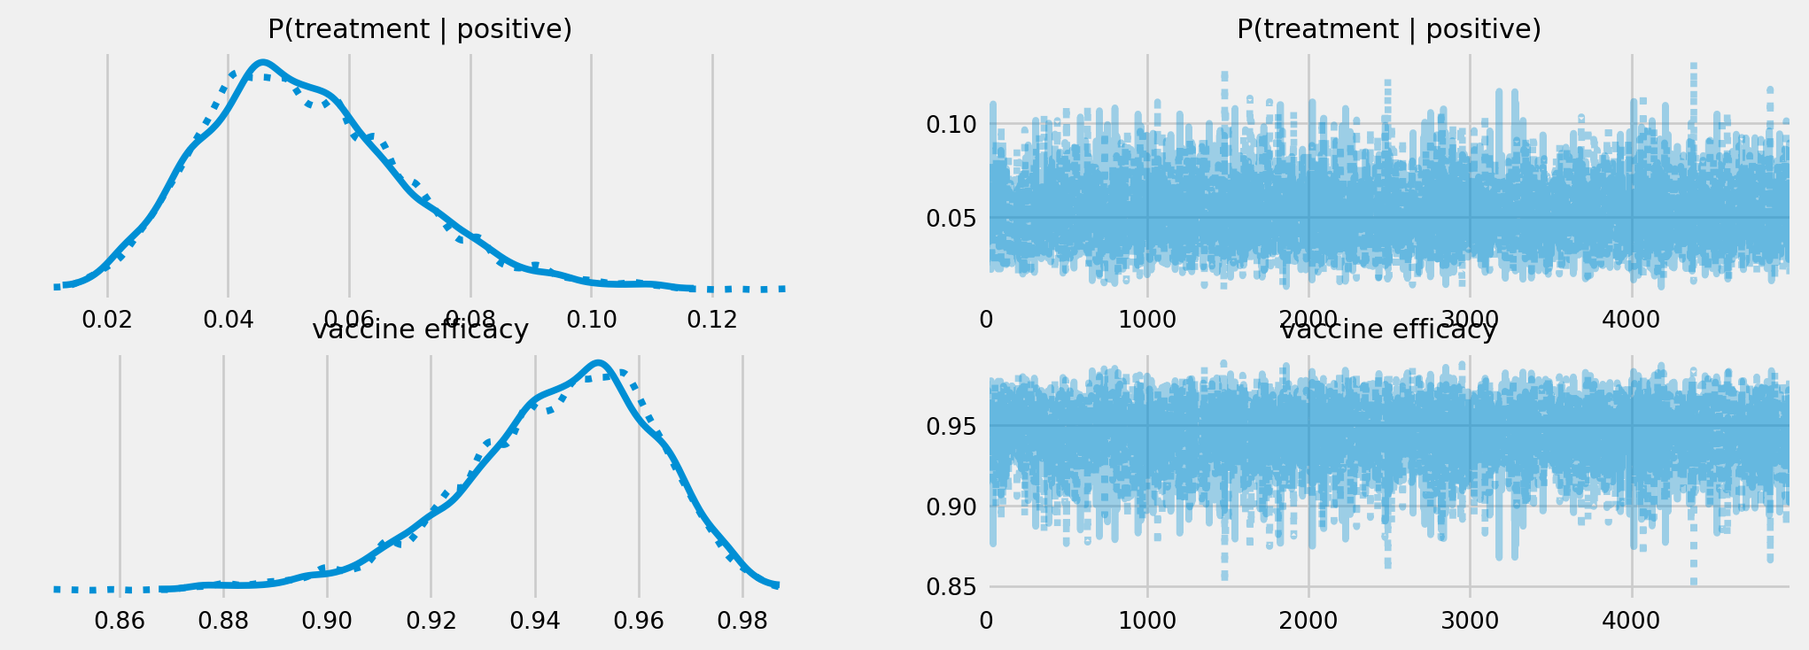
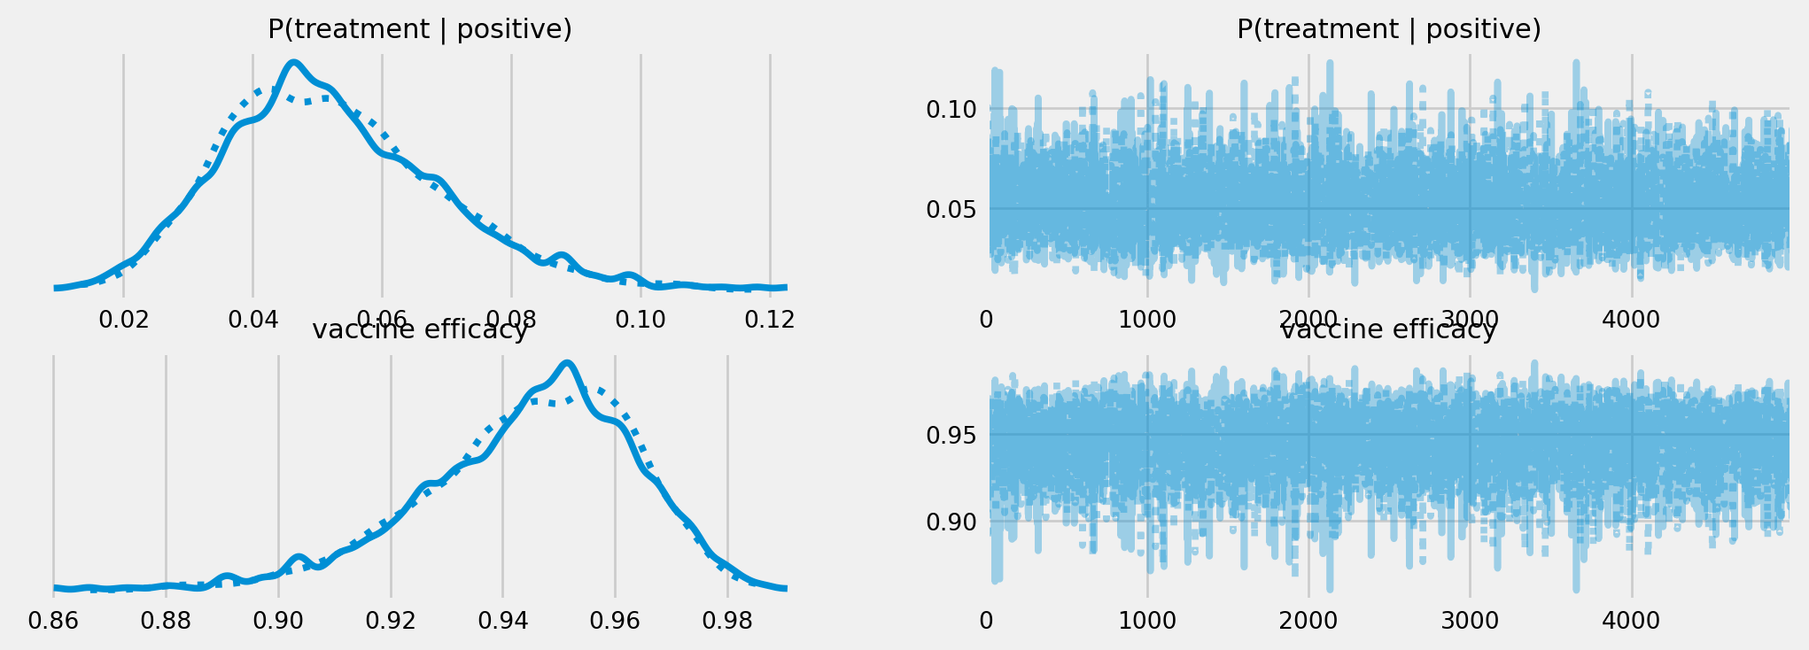
Built site for gh-pages

diff --git a/posts/regression_using_jax/index.html b/posts/regression_using_jax/index.html
@@ -124,6 +124,7 @@ code span.wa { color: #60a0b0; font-weight: bold; font-style: italic; } /* Warni
   }
 }</script>
 
+  <script src="https://cdn.jsdelivr.net/npm/mathjax@3/es5/tex-chtml-full.js" type="text/javascript"></script>
 
 <link rel="stylesheet" href="../../styles.css">
 </head>
@@ -233,7 +234,7 @@ code span.wa { color: #60a0b0; font-weight: bold; font-style: italic; } /* Warni
 <p><img src="index_files/figure-html/cell-3-output-1.png" class="img-fluid"></p>
 </div>
 <div class="cell-output cell-output-display" data-execution_count="2">
-<pre><code>&lt;ggplot: (8758889584538)&gt;</code></pre>
+<pre><code>&lt;ggplot: (8785277175537)&gt;</code></pre>
 </div>
 </div>
 <p>선형 모델을 먼저 생각해 봅니다.</p>
@@ -254,8 +255,7 @@ code span.wa { color: #60a0b0; font-weight: bold; font-style: italic; } /* Warni
 <p>이제 경사하강법을 활용하여 w를 찾아봅니다.</p>
 <p>경사하강법은 말그대로 경사를 구해서 낮은 쪽으로 이동하게 하는 것입니다.</p>
 <p>기본적인 아이디어는 예측치와 관측값의 차이를 합치는 손실함수(loss function)을 구합니다. 그리고 파라미터를 손실이 줄어드는 방향(경사, 미분해서 보통 구합니다)으로 조금씩 옮겨가면서 최적의 값을 찾아 한발 한발 나아가는 방식입니다.</p>
-<p>수식으로 간단하게 표기해보자면</p>
-<p>로 정의하고 이 을 로 미분해 해당 미분값(경사)를 이용해서 낮추는 방향으로 파라미터 를 바꿔가면서 찾아가는 방식입니다.</p>
+<p>수식으로 간단하게 표기해보자면 <span class="math display">\[Loss = ￦sum_i f(w, data_i)\]</span> 로 정의하고 <span class="math inline">\(\sum_i f(w, data_i)\)</span>를 <span class="math inline">\(w\)</span>로 미분해서 해당 미분값(경사)를 이용해서 낮추는 방향으로 파라미터를 바꿔가면서 찾아가는 방식입니다.</p>
 <div class="cell" data-execution_count="4">
 <div class="sourceCode cell-code" id="cb6"><pre class="sourceCode python code-with-copy"><code class="sourceCode python"><span id="cb6-1"><a href="#cb6-1" aria-hidden="true" tabindex="-1"></a>rate <span class="op">=</span> <span class="fl">0.0001</span></span>
 <span id="cb6-2"><a href="#cb6-2" aria-hidden="true" tabindex="-1"></a></span>
@@ -267,7 +267,7 @@ code span.wa { color: #60a0b0; font-weight: bold; font-style: italic; } /* Warni
 <span id="cb6-8"><a href="#cb6-8" aria-hidden="true" tabindex="-1"></a>    losses.append(l)</span>
 <span id="cb6-9"><a href="#cb6-9" aria-hidden="true" tabindex="-1"></a>    dw <span class="op">=</span> dloss(w, model, X, y)</span>
 <span id="cb6-10"><a href="#cb6-10" aria-hidden="true" tabindex="-1"></a>    <span class="cf">for</span> key <span class="kw">in</span> w.keys():</span>
-<span id="cb6-11"><a href="#cb6-11" aria-hidden="true" tabindex="-1"></a>        w[key] <span class="op">-=</span> dw[key]<span class="op">*</span>rate</span></code><button title="Copy to Clipboard" class="code-copy-button"><i class="bi"></i></button></pre></div>
+<span id="cb6-11"><a href="#cb6-11" aria-hidden="true" tabindex="-1"></a>        w[key] <span class="op">-=</span> dw[key]<span class="op">*</span>rate </span></code><button title="Copy to Clipboard" class="code-copy-button"><i class="bi"></i></button></pre></div>
 <div class="cell-output cell-output-stderr">
 <pre><code>  0%|          | 0/100 [00:00&lt;?, ?it/s]</code></pre>
 </div>
@@ -275,85 +275,88 @@ code span.wa { color: #60a0b0; font-weight: bold; font-style: italic; } /* Warni
 <pre><code>WARNING:jax._src.lib.xla_bridge:No GPU/TPU found, falling back to CPU. (Set TF_CPP_MIN_LOG_LEVEL=0 and rerun for more info.)</code></pre>
 </div>
 <div class="cell-output cell-output-stderr">
-<pre><code>  1%|          | 1/100 [00:00&lt;00:20,  4.84it/s]</code></pre>
+<pre><code>  1%|          | 1/100 [00:01&lt;02:19,  1.41s/it]</code></pre>
 </div>
 <div class="cell-output cell-output-stderr">
-<pre><code> 17%|█▋        | 17/100 [00:00&lt;00:01, 67.32it/s]</code></pre>
+<pre><code> 10%|█         | 10/100 [00:01&lt;00:10,  8.89it/s]</code></pre>
 </div>
 <div class="cell-output cell-output-stderr">
-<pre><code> 42%|████▏     | 42/100 [00:00&lt;00:00, 132.25it/s]</code></pre>
+<pre><code> 33%|███▎      | 33/100 [00:01&lt;00:01, 34.41it/s]</code></pre>
 </div>
 <div class="cell-output cell-output-stderr">
-<pre><code> 66%|██████▌   | 66/100 [00:00&lt;00:00, 167.38it/s]</code></pre>
+<pre><code> 52%|█████▏    | 52/100 [00:01&lt;00:00, 55.99it/s]</code></pre>
 </div>
 <div class="cell-output cell-output-stderr">
-<pre><code> 90%|█████████ | 90/100 [00:00&lt;00:00, 189.79it/s]</code></pre>
+<pre><code> 72%|███████▏  | 72/100 [00:01&lt;00:00, 79.65it/s]</code></pre>
 </div>
 <div class="cell-output cell-output-stderr">
-<pre><code>100%|██████████| 100/100 [00:00&lt;00:00, 151.72it/s]</code></pre>
+<pre><code> 97%|█████████▋| 97/100 [00:01&lt;00:00, 112.24it/s]</code></pre>
+</div>
+<div class="cell-output cell-output-stderr">
+<pre><code>100%|██████████| 100/100 [00:01&lt;00:00, 51.56it/s]</code></pre>
 </div>
 <div class="cell-output cell-output-stderr">
 <pre><code></code></pre>
 </div>
 </div>
 <div class="cell" data-execution_count="5">
-<div class="sourceCode cell-code" id="cb16"><pre class="sourceCode python code-with-copy"><code class="sourceCode python"><span id="cb16-1"><a href="#cb16-1" aria-hidden="true" tabindex="-1"></a><span class="co"># overlay plots</span></span>
-<span id="cb16-2"><a href="#cb16-2" aria-hidden="true" tabindex="-1"></a>result_df <span class="op">=</span> pd.DataFrame(<span class="bu">zip</span>(X, np.array(model(w, X))), columns<span class="op">=</span>[<span class="st">"X"</span>, <span class="st">"f"</span>])</span>
-<span id="cb16-3"><a href="#cb16-3" aria-hidden="true" tabindex="-1"></a>(</span>
-<span id="cb16-4"><a href="#cb16-4" aria-hidden="true" tabindex="-1"></a>    ggplot(data<span class="op">=</span>data) <span class="op">+</span></span>
-<span id="cb16-5"><a href="#cb16-5" aria-hidden="true" tabindex="-1"></a>    aes(<span class="st">"X"</span>, <span class="st">"y"</span>) <span class="op">+</span></span>
-<span id="cb16-6"><a href="#cb16-6" aria-hidden="true" tabindex="-1"></a>    geom_point() <span class="op">+</span></span>
-<span id="cb16-7"><a href="#cb16-7" aria-hidden="true" tabindex="-1"></a>    geom_smooth(method<span class="op">=</span><span class="st">"lm"</span>) <span class="op">+</span></span>
-<span id="cb16-8"><a href="#cb16-8" aria-hidden="true" tabindex="-1"></a>    geom_line(data<span class="op">=</span>result_df, mapping<span class="op">=</span>aes(<span class="st">"X"</span>, <span class="st">"f"</span>),  color<span class="op">=</span><span class="st">"#ff1234"</span>)</span>
-<span id="cb16-9"><a href="#cb16-9" aria-hidden="true" tabindex="-1"></a>    </span>
-<span id="cb16-10"><a href="#cb16-10" aria-hidden="true" tabindex="-1"></a>)</span></code><button title="Copy to Clipboard" class="code-copy-button"><i class="bi"></i></button></pre></div>
+<div class="sourceCode cell-code" id="cb17"><pre class="sourceCode python code-with-copy"><code class="sourceCode python"><span id="cb17-1"><a href="#cb17-1" aria-hidden="true" tabindex="-1"></a><span class="co"># overlay plots</span></span>
+<span id="cb17-2"><a href="#cb17-2" aria-hidden="true" tabindex="-1"></a>result_df <span class="op">=</span> pd.DataFrame(<span class="bu">zip</span>(X, np.array(model(w, X))), columns<span class="op">=</span>[<span class="st">"X"</span>, <span class="st">"f"</span>])</span>
+<span id="cb17-3"><a href="#cb17-3" aria-hidden="true" tabindex="-1"></a>(</span>
+<span id="cb17-4"><a href="#cb17-4" aria-hidden="true" tabindex="-1"></a>    ggplot(data<span class="op">=</span>data) <span class="op">+</span></span>
+<span id="cb17-5"><a href="#cb17-5" aria-hidden="true" tabindex="-1"></a>    aes(<span class="st">"X"</span>, <span class="st">"y"</span>) <span class="op">+</span></span>
+<span id="cb17-6"><a href="#cb17-6" aria-hidden="true" tabindex="-1"></a>    geom_point() <span class="op">+</span></span>
+<span id="cb17-7"><a href="#cb17-7" aria-hidden="true" tabindex="-1"></a>    geom_smooth(method<span class="op">=</span><span class="st">"lm"</span>) <span class="op">+</span></span>
+<span id="cb17-8"><a href="#cb17-8" aria-hidden="true" tabindex="-1"></a>    geom_line(data<span class="op">=</span>result_df, mapping<span class="op">=</span>aes(<span class="st">"X"</span>, <span class="st">"f"</span>),  color<span class="op">=</span><span class="st">"#ff1234"</span>)</span>
+<span id="cb17-9"><a href="#cb17-9" aria-hidden="true" tabindex="-1"></a>    </span>
+<span id="cb17-10"><a href="#cb17-10" aria-hidden="true" tabindex="-1"></a>)</span></code><button title="Copy to Clipboard" class="code-copy-button"><i class="bi"></i></button></pre></div>
 <div class="cell-output cell-output-display">
 <p><img src="index_files/figure-html/cell-6-output-1.png" class="img-fluid"></p>
 </div>
 <div class="cell-output cell-output-display" data-execution_count="5">
-<pre><code>&lt;ggplot: (8758805328122)&gt;</code></pre>
+<pre><code>&lt;ggplot: (8785277027825)&gt;</code></pre>
 </div>
 </div>
 <div class="cell" data-execution_count="6">
-<div class="sourceCode cell-code" id="cb18"><pre class="sourceCode python code-with-copy"><code class="sourceCode python"><span id="cb18-1"><a href="#cb18-1" aria-hidden="true" tabindex="-1"></a>dfs <span class="op">=</span> [pd.DataFrame(<span class="bu">zip</span>(<span class="bu">map</span>(<span class="bu">int</span>, np.ones_like(X)<span class="op">*</span>i), X, np.array(model(ws[i], X))), columns<span class="op">=</span>[<span class="st">"i"</span>, <span class="st">"X"</span>, <span class="st">"f"</span>]) <span class="cf">for</span> i <span class="kw">in</span> <span class="bu">range</span>(<span class="dv">0</span>, <span class="dv">50</span>, <span class="dv">5</span>)]</span>
-<span id="cb18-2"><a href="#cb18-2" aria-hidden="true" tabindex="-1"></a>df <span class="op">=</span> pd.concat(dfs)</span></code><button title="Copy to Clipboard" class="code-copy-button"><i class="bi"></i></button></pre></div>
+<div class="sourceCode cell-code" id="cb19"><pre class="sourceCode python code-with-copy"><code class="sourceCode python"><span id="cb19-1"><a href="#cb19-1" aria-hidden="true" tabindex="-1"></a>dfs <span class="op">=</span> [pd.DataFrame(<span class="bu">zip</span>(<span class="bu">map</span>(<span class="bu">int</span>, np.ones_like(X)<span class="op">*</span>i), X, np.array(model(ws[i], X))), columns<span class="op">=</span>[<span class="st">"i"</span>, <span class="st">"X"</span>, <span class="st">"f"</span>]) <span class="cf">for</span> i <span class="kw">in</span> <span class="bu">range</span>(<span class="dv">0</span>, <span class="dv">50</span>, <span class="dv">5</span>)]</span>
+<span id="cb19-2"><a href="#cb19-2" aria-hidden="true" tabindex="-1"></a>df <span class="op">=</span> pd.concat(dfs)</span></code><button title="Copy to Clipboard" class="code-copy-button"><i class="bi"></i></button></pre></div>
 </div>
 <p>처음에는 많이 차이나지만 점점 해석적으로 계산한 선형 회귀 값과 유사해지는 것을 볼 수 있습니다.</p>
 <p>이 경사하강법의 장점은 손실함수를 정의 할 수만 있다면 적용할 수 있어 유연하게 많은 곳에 적용할 수 있습니다.</p>
 <div class="cell" data-execution_count="7">
-<div class="sourceCode cell-code" id="cb19"><pre class="sourceCode python code-with-copy"><code class="sourceCode python"><span id="cb19-1"><a href="#cb19-1" aria-hidden="true" tabindex="-1"></a>p <span class="op">=</span> (</span>
-<span id="cb19-2"><a href="#cb19-2" aria-hidden="true" tabindex="-1"></a>    ggplot(data<span class="op">=</span>df) <span class="op">+</span></span>
-<span id="cb19-3"><a href="#cb19-3" aria-hidden="true" tabindex="-1"></a>    aes(x<span class="op">=</span><span class="st">"X"</span>, y<span class="op">=</span><span class="st">"f"</span>) <span class="op">+</span></span>
-<span id="cb19-4"><a href="#cb19-4" aria-hidden="true" tabindex="-1"></a>    geom_point(data<span class="op">=</span>data, mapping<span class="op">=</span>aes(<span class="st">"X"</span>, <span class="st">"y"</span>)) <span class="op">+</span></span>
-<span id="cb19-5"><a href="#cb19-5" aria-hidden="true" tabindex="-1"></a>    geom_smooth(data<span class="op">=</span>data, method<span class="op">=</span><span class="st">"lm"</span>, mapping<span class="op">=</span>aes(<span class="st">"X"</span>, <span class="st">"y"</span>), color<span class="op">=</span><span class="st">"yellow"</span>) <span class="op">+</span></span>
-<span id="cb19-6"><a href="#cb19-6" aria-hidden="true" tabindex="-1"></a>    geom_line(color<span class="op">=</span><span class="st">"red"</span>, size<span class="op">=</span><span class="dv">1</span>) <span class="op">+</span></span>
-<span id="cb19-7"><a href="#cb19-7" aria-hidden="true" tabindex="-1"></a>    facet_wrap(<span class="st">"i"</span>)</span>
-<span id="cb19-8"><a href="#cb19-8" aria-hidden="true" tabindex="-1"></a>)</span>
-<span id="cb19-9"><a href="#cb19-9" aria-hidden="true" tabindex="-1"></a>p</span></code><button title="Copy to Clipboard" class="code-copy-button"><i class="bi"></i></button></pre></div>
+<div class="sourceCode cell-code" id="cb20"><pre class="sourceCode python code-with-copy"><code class="sourceCode python"><span id="cb20-1"><a href="#cb20-1" aria-hidden="true" tabindex="-1"></a>p <span class="op">=</span> (</span>
+<span id="cb20-2"><a href="#cb20-2" aria-hidden="true" tabindex="-1"></a>    ggplot(data<span class="op">=</span>df) <span class="op">+</span></span>
+<span id="cb20-3"><a href="#cb20-3" aria-hidden="true" tabindex="-1"></a>    aes(x<span class="op">=</span><span class="st">"X"</span>, y<span class="op">=</span><span class="st">"f"</span>) <span class="op">+</span></span>
+<span id="cb20-4"><a href="#cb20-4" aria-hidden="true" tabindex="-1"></a>    geom_point(data<span class="op">=</span>data, mapping<span class="op">=</span>aes(<span class="st">"X"</span>, <span class="st">"y"</span>)) <span class="op">+</span></span>
+<span id="cb20-5"><a href="#cb20-5" aria-hidden="true" tabindex="-1"></a>    geom_smooth(data<span class="op">=</span>data, method<span class="op">=</span><span class="st">"lm"</span>, mapping<span class="op">=</span>aes(<span class="st">"X"</span>, <span class="st">"y"</span>), color<span class="op">=</span><span class="st">"yellow"</span>) <span class="op">+</span></span>
+<span id="cb20-6"><a href="#cb20-6" aria-hidden="true" tabindex="-1"></a>    geom_line(color<span class="op">=</span><span class="st">"red"</span>, size<span class="op">=</span><span class="dv">1</span>) <span class="op">+</span></span>
+<span id="cb20-7"><a href="#cb20-7" aria-hidden="true" tabindex="-1"></a>    facet_wrap(<span class="st">"i"</span>)</span>
+<span id="cb20-8"><a href="#cb20-8" aria-hidden="true" tabindex="-1"></a>)</span>
+<span id="cb20-9"><a href="#cb20-9" aria-hidden="true" tabindex="-1"></a>p</span></code><button title="Copy to Clipboard" class="code-copy-button"><i class="bi"></i></button></pre></div>
 <div class="cell-output cell-output-display">
 <p><img src="index_files/figure-html/cell-8-output-1.png" class="img-fluid"></p>
 </div>
 <div class="cell-output cell-output-display" data-execution_count="7">
-<pre><code>&lt;ggplot: (8758805329059)&gt;</code></pre>
+<pre><code>&lt;ggplot: (8785276951784)&gt;</code></pre>
 </div>
 </div>
 <p>하나의 그래프에 겹쳐서 표현하면 아래와 같은 그래프가 됩니다.</p>
 <div class="cell" data-execution_count="8">
-<div class="sourceCode cell-code" id="cb21"><pre class="sourceCode python code-with-copy"><code class="sourceCode python"><span id="cb21-1"><a href="#cb21-1" aria-hidden="true" tabindex="-1"></a>p <span class="op">=</span> (ggplot() <span class="op">+</span></span>
-<span id="cb21-2"><a href="#cb21-2" aria-hidden="true" tabindex="-1"></a>    geom_point(data<span class="op">=</span>data, mapping<span class="op">=</span>aes(<span class="st">"X"</span>, <span class="st">"y"</span>)) <span class="op">+</span></span>
-<span id="cb21-3"><a href="#cb21-3" aria-hidden="true" tabindex="-1"></a>    geom_smooth(data<span class="op">=</span>data, method<span class="op">=</span><span class="st">"lm"</span>, mapping<span class="op">=</span>aes(<span class="st">"X"</span>, <span class="st">"y"</span>), color<span class="op">=</span><span class="st">"yellow"</span>)</span>
-<span id="cb21-4"><a href="#cb21-4" aria-hidden="true" tabindex="-1"></a>)</span>
-<span id="cb21-5"><a href="#cb21-5" aria-hidden="true" tabindex="-1"></a></span>
-<span id="cb21-6"><a href="#cb21-6" aria-hidden="true" tabindex="-1"></a><span class="cf">for</span> df <span class="kw">in</span> dfs:</span>
-<span id="cb21-7"><a href="#cb21-7" aria-hidden="true" tabindex="-1"></a>    p <span class="op">+=</span> geom_line(data<span class="op">=</span>df, mapping<span class="op">=</span>aes(x<span class="op">=</span><span class="st">"X"</span>, y<span class="op">=</span><span class="st">"f"</span>, color<span class="op">=</span><span class="st">"i"</span>))</span>
-<span id="cb21-8"><a href="#cb21-8" aria-hidden="true" tabindex="-1"></a></span>
-<span id="cb21-9"><a href="#cb21-9" aria-hidden="true" tabindex="-1"></a></span>
-<span id="cb21-10"><a href="#cb21-10" aria-hidden="true" tabindex="-1"></a>p</span></code><button title="Copy to Clipboard" class="code-copy-button"><i class="bi"></i></button></pre></div>
+<div class="sourceCode cell-code" id="cb22"><pre class="sourceCode python code-with-copy"><code class="sourceCode python"><span id="cb22-1"><a href="#cb22-1" aria-hidden="true" tabindex="-1"></a>p <span class="op">=</span> (ggplot() <span class="op">+</span></span>
+<span id="cb22-2"><a href="#cb22-2" aria-hidden="true" tabindex="-1"></a>    geom_point(data<span class="op">=</span>data, mapping<span class="op">=</span>aes(<span class="st">"X"</span>, <span class="st">"y"</span>)) <span class="op">+</span></span>
+<span id="cb22-3"><a href="#cb22-3" aria-hidden="true" tabindex="-1"></a>    geom_smooth(data<span class="op">=</span>data, method<span class="op">=</span><span class="st">"lm"</span>, mapping<span class="op">=</span>aes(<span class="st">"X"</span>, <span class="st">"y"</span>), color<span class="op">=</span><span class="st">"yellow"</span>)</span>
+<span id="cb22-4"><a href="#cb22-4" aria-hidden="true" tabindex="-1"></a>)</span>
+<span id="cb22-5"><a href="#cb22-5" aria-hidden="true" tabindex="-1"></a></span>
+<span id="cb22-6"><a href="#cb22-6" aria-hidden="true" tabindex="-1"></a><span class="cf">for</span> df <span class="kw">in</span> dfs:</span>
+<span id="cb22-7"><a href="#cb22-7" aria-hidden="true" tabindex="-1"></a>    p <span class="op">+=</span> geom_line(data<span class="op">=</span>df, mapping<span class="op">=</span>aes(x<span class="op">=</span><span class="st">"X"</span>, y<span class="op">=</span><span class="st">"f"</span>, color<span class="op">=</span><span class="st">"i"</span>))</span>
+<span id="cb22-8"><a href="#cb22-8" aria-hidden="true" tabindex="-1"></a></span>
+<span id="cb22-9"><a href="#cb22-9" aria-hidden="true" tabindex="-1"></a></span>
+<span id="cb22-10"><a href="#cb22-10" aria-hidden="true" tabindex="-1"></a>p</span></code><button title="Copy to Clipboard" class="code-copy-button"><i class="bi"></i></button></pre></div>
 <div class="cell-output cell-output-display">
 <p><img src="index_files/figure-html/cell-9-output-1.png" class="img-fluid"></p>
 </div>
 <div class="cell-output cell-output-display" data-execution_count="8">
-<pre><code>&lt;ggplot: (8758805495580)&gt;</code></pre>
+<pre><code>&lt;ggplot: (8785277181037)&gt;</code></pre>
 </div>
 </div>
 

diff --git a/posts/bayesian_approach_for_COVID-19_vaccine_efficacy/index.html b/posts/bayesian_approach_for_COVID-19_vaccine_efficacy/index.html
@@ -287,8 +287,7 @@ code span.wa { color: #60a0b0; font-weight: bold; font-style: italic; } /* Warni
 </section>
 <section id="모델링-양성-환자가-백신을-맞은-그룹에-속한-확률-p" class="level3">
 <h3 class="anchored" data-anchor-id="모델링-양성-환자가-백신을-맞은-그룹에-속한-확률-p">모델링: 양성 환자가 백신을 맞은 그룹에 속한 확률 p</h3>
-<p>양성 환자가 백신을 맞은 그룹에 속할 확률을 p라고 하자. 그렇게 p를 정했다고 가정하면 우리는 그 p값 하에서 우리가 가진 양성환자 데이터가 나올 확률(likelihood)를 계산할 수 있습니다.</p>
-<p>백신에 대해서는 아는 것이 없기도 하고 모든 값이 가능하다고 생각하기 때문에 0과 1사이에 편향이 없는(uniform) 분포와 동일한 Beta(1, 1) 분포를 사전분포(prior distribution)으로 가정했습니다.</p>
+<p>양성 환자가 백신을 맞은 그룹에 속할 확률을 p라고 하자. 그렇게 p를 정했다고 가정하면 우리는 그 p값 하에서 우리가 가진 양성환자 데이터가 나올 확률(likelihood)를 계산할 수 있습니다. 백신에 대해서는 아는 것이 없기도 하고 모든 값이 가능하다고 생각하기 때문에 0과 1사이에 편향이 없는(uniform) 분포와 동일한 Beta(1, 1) 분포를 사전분포(prior distribution)으로 가정했습니다.</p>
 <div class="cell" data-execution_count="3">
 <div class="sourceCode cell-code" id="cb3"><pre class="sourceCode python code-with-copy"><code class="sourceCode python"><span id="cb3-1"><a href="#cb3-1" aria-hidden="true" tabindex="-1"></a><span class="cf">with</span> pm.Model() <span class="im">as</span> model:</span>
 <span id="cb3-2"><a href="#cb3-2" aria-hidden="true" tabindex="-1"></a>    rate <span class="op">=</span> pm.Beta(<span class="st">"P(treatment | positive)"</span>, alpha<span class="op">=</span><span class="dv">1</span>, beta<span class="op">=</span><span class="dv">1</span>)  <span class="co"># p의 분포</span></span>
@@ -301,9 +300,8 @@ code span.wa { color: #60a0b0; font-weight: bold; font-style: italic; } /* Warni
 </div>
 </div>
 <p>위 그래프를 조금 해석해 보려고 합니다.</p>
-<p>P(treatment | positive)는 양성일 때 treatment 그룹에 속할 확률입니다.</p>
-<p>likelihood가 회색인 이유는 P(treatment | positive)의 값이 정해졌을 때 데이터가 확인될 확률을 베르누이 분포로 구한 것이기 때문입니다.</p>
-<p>즉 아래 수식의 값을 구하는 것입니다. 여기서는 170명 중 8명이 백신 맞은 집단이기 때문에 아래와 같은 수식이 되는데요. p는 위에서 언급한 P(treatment | positive)와 같습니다. <span class="math display">\[likelihood = p^{8}(1-p)^{162} \]</span></p>
+<p><span class="math inline">\(P(treatment | positive)\)</span>는 양성일 때 treatment 그룹에 속할 확률입니다. likelihood가 회색인 이유는 <span class="math inline">\(P(treatment | positive)\)</span>의 값이 정해졌을 때 데이터가 확인될 확률을 베르누이 분포로 구한 것이기 때문입니다.</p>
+<p>즉 아래 수식의 값을 구하는 것입니다. 여기서는 170명 중 8명이 백신 맞은 집단이기 때문에 아래와 같은 수식이 되는데요. p는 위에서 언급한 <span class="math inline">\(P(treatment | positive)\)</span>와 같습니다. <span class="math display">\[likelihood = p^{8}(1-p)^{162} \]</span></p>
 <p>이렇게 0과 1사이에 있는 p의 분포를 구할 수 있게 됩니다. 사전분포(Prior distribution)과 우도(likelihood)를 구할 수 있으면 우리는 베이즈 정리를 통해 사후분포(posterior distribution)를 얻을 수 잇게 됩니다. 그 p의 사후분포를 통해서 efficacy를 구하게 되는 것입니다.</p>
 <p>이제 이를 계산하는 여러가지 방법이 있겠지만, 계산의 현실성 문제 등으로 인해서 MCMC(Markov Chain Monte Carlo) 방법으로 계산을 해보겠습니다.</p>
 <p>사후분포를 구하기 위해서는 아래와 같은 코드를 실행 시키면 됩니다.</p>
@@ -340,14 +338,14 @@ code span.wa { color: #60a0b0; font-weight: bold; font-style: italic; } /* Warni
     </div>
     
 </div>
-<div class="cell-output cell-output-stdout">
-<pre><code></code></pre>
-</div>
 <div class="cell-output cell-output-stderr">
 <pre><code>Multiprocess sampling (2 chains in 2 jobs)</code></pre>
 </div>
 <div class="cell-output cell-output-stderr">
 <pre><code>HamiltonianMC: [P(treatment | positive)]</code></pre>
+</div>
+<div class="cell-output cell-output-stdout">
+<pre><code></code></pre>
 </div>
 <div class="cell-output cell-output-display">
 
@@ -371,7 +369,7 @@ code span.wa { color: #60a0b0; font-weight: bold; font-style: italic; } /* Warni
 
     <div>
       <progress value="12000" class="" max="12000" style="width:300px; height:20px; vertical-align: middle;"></progress>
-      100.00% [12000/12000 00:02&lt;00:00 Sampling 2 chains, 0 divergences]
+      100.00% [12000/12000 00:03&lt;00:00 Sampling 2 chains, 0 divergences]
     </div>
     
 </div>
@@ -552,7 +550,8 @@ code span.wa { color: #60a0b0; font-weight: bold; font-style: italic; } /* Warni
 <span id="cb19-5"><a href="#cb19-5" aria-hidden="true" tabindex="-1"></a>sns.distplot(trace[<span class="st">'AstraZeneca 2 vaccine efficacy'</span>], hist<span class="op">=</span><span class="va">False</span>, label<span class="op">=</span><span class="st">'AstraZeneca regimen 2'</span>)</span>
 <span id="cb19-6"><a href="#cb19-6" aria-hidden="true" tabindex="-1"></a>plt.title(<span class="st">"Posterior distributions of efficacy of different vaccines"</span>)</span>
 <span id="cb19-7"><a href="#cb19-7" aria-hidden="true" tabindex="-1"></a>plt.legend()</span>
-<span id="cb19-8"><a href="#cb19-8" aria-hidden="true" tabindex="-1"></a>plt.show()<span class="op">;</span></span></code><button title="Copy to Clipboard" class="code-copy-button"><i class="bi"></i></button></pre></div>
+<span id="cb19-8"><a href="#cb19-8" aria-hidden="true" tabindex="-1"></a>plt.savefig(<span class="st">"efficacy.png"</span>)</span>
+<span id="cb19-9"><a href="#cb19-9" aria-hidden="true" tabindex="-1"></a>plt.show()<span class="op">;</span></span></code><button title="Copy to Clipboard" class="code-copy-button"><i class="bi"></i></button></pre></div>
 <div class="cell-output cell-output-display">
 <p><img src="index_files/figure-html/cell-12-output-1.png" width="772" height="693"></p>
 </div>
@@ -564,20 +563,18 @@ code span.wa { color: #60a0b0; font-weight: bold; font-style: italic; } /* Warni
 <span id="cb20-3"><a href="#cb20-3" aria-hidden="true" tabindex="-1"></a>    pm.forestplot(trace, var_names<span class="op">=</span>efficacy_names)<span class="op">;</span></span>
 <span id="cb20-4"><a href="#cb20-4" aria-hidden="true" tabindex="-1"></a>plt.show()</span></code><button title="Copy to Clipboard" class="code-copy-button"><i class="bi"></i></button></pre></div>
 <div class="cell-output cell-output-display">
-<p><img src="index_files/figure-html/cell-13-output-1.png" width="820" height="673"></p>
+<p><img src="index_files/figure-html/cell-13-output-1.png" width="823" height="673"></p>
 </div>
 </div>
 </section>
 <section id="불확실성의-해석" class="level3">
 <h3 class="anchored" data-anchor-id="불확실성의-해석">불확실성의 해석</h3>
-<p>그래서 AstraZeneca 1의 백신의 평균만 보면 moderna와 비슷한 효능을 보이는 것 같지만, 불확실성이 훨씬 크기에 Moderna 만큼 좋은가에 대해서는 추가적인 조사가 필요한 것으로 보입니다.</p>
-<p>한가지 참고할 만한 부분은 이유는 모르겠지만 AstraZeneca 1방법으로 백신을 놓고 있지는 않는 것으로 알려져 있으며 아마도 당초 설계와 다르기 때문에 그런 것으로 판단됩니다.</p>
+<p>그래서 AstraZeneca 1의 백신의 평균만 보면 moderna와 비슷한 효능을 보이는 것 같지만, 불확실성이 훨씬 크기에 Moderna 만큼 좋은가에 대해서는 추가적인 조사가 필요한 것으로 보입니다. 한가지 참고할 만한 부분은 이유는 모르겠지만 AstraZeneca 1방법으로 백신을 놓고 있지는 않는 것으로 알려져 있으며 아마도 당초 설계와 다르기 때문에 그런 것으로 판단됩니다.</p>
 </section>
 </section>
 <section id="백신간의-비교는-어떻게-할까" class="level2">
 <h2 class="anchored" data-anchor-id="백신간의-비교는-어떻게-할까">백신간의 비교는 어떻게 할까?</h2>
-<p>위에서 진행한 방식을 조금 응용하면 백신 간 예방효과의 우월성을 비교할 수 있습니다.</p>
-<p>간단하게 설명하자면 위에서 구하는 efficacy 분포를 서로 빼 보면 됩니다.</p>
+<p>위에서 진행한 방식을 조금 응용하면 백신 간 예방효과의 우월성을 비교할 수 있습니다. 간단하게 설명하자면 위에서 구하는 efficacy 분포를 서로 빼 보면 됩니다.</p>
 <section id="pfizer-vs.-moderna" class="level3">
 <h3 class="anchored" data-anchor-id="pfizer-vs.-moderna">Pfizer vs.&nbsp;Moderna</h3>
 <p>Pfizer와 Moderna 백신을 비교해보자. 자료는 위에서 사용했던 것을 그대로 사용하고 거의 모든 것은 동일 하지만 마지막에 difference와 ralation을 구해봅니다.</p>
@@ -660,7 +657,7 @@ code span.wa { color: #60a0b0; font-weight: bold; font-style: italic; } /* Warni
 
     <div>
       <progress value="12000" class="" max="12000" style="width:300px; height:20px; vertical-align: middle;"></progress>
-      100.00% [12000/12000 00:02&lt;00:00 Sampling 2 chains, 0 divergences]
+      100.00% [12000/12000 00:03&lt;00:00 Sampling 2 chains, 0 divergences]
     </div>
     
 </div>
@@ -677,7 +674,7 @@ code span.wa { color: #60a0b0; font-weight: bold; font-style: italic; } /* Warni
 <span id="cb29-2"><a href="#cb29-2" aria-hidden="true" tabindex="-1"></a>    _ <span class="op">=</span> pm.plot_posterior(trace_1, var_names<span class="op">=</span>[<span class="st">'difference'</span>, <span class="st">'relation'</span>], ref_val<span class="op">=</span><span class="dv">0</span>)<span class="op">;</span></span>
 <span id="cb29-3"><a href="#cb29-3" aria-hidden="true" tabindex="-1"></a>plt.show()</span></code><button title="Copy to Clipboard" class="code-copy-button"><i class="bi"></i></button></pre></div>
 <div class="cell-output cell-output-display">
-<p><img src="index_files/figure-html/cell-15-output-1.png" width="1372" height="518"></p>
+<p><img src="index_files/figure-html/cell-15-output-1.png" width="1375" height="518"></p>
 </div>
 </div>
 <p>이를 간단히 해석하자면 Pfizer백신이 Moderna백신보다 약간 더 나아 보이기는 합니다.(차이의 평균이 1.1%정도로 Pfizer가 높다고 해석할 수 있다.) 다만, 그 불확실성이 커서 실제로 나은 것인지 아니면 우연히 나은 것인지 판단하기는 어려운 상황입니다.</p>
@@ -685,7 +682,7 @@ code span.wa { color: #60a0b0; font-weight: bold; font-style: italic; } /* Warni
 <div class="sourceCode cell-code" id="cb30"><pre class="sourceCode python code-with-copy"><code class="sourceCode python"><span id="cb30-1"><a href="#cb30-1" aria-hidden="true" tabindex="-1"></a>diffs_1 <span class="op">=</span> trace_1.get_values(<span class="st">'difference'</span>, burn<span class="op">=</span><span class="dv">1000</span>)</span>
 <span id="cb30-2"><a href="#cb30-2" aria-hidden="true" tabindex="-1"></a><span class="bu">print</span>(<span class="ss">f"Pfizer가 Moderna보다 나을 확률: </span><span class="sc">{</span><span class="dv">100</span><span class="op">*</span><span class="bu">len</span>(diffs_1[diffs_1<span class="op">&gt;</span><span class="dv">0</span>])<span class="op">*</span><span class="fl">1.0</span><span class="op">/</span><span class="bu">len</span>(diffs_1)<span class="sc">:.2f}</span><span class="ss">% "</span>)</span></code><button title="Copy to Clipboard" class="code-copy-button"><i class="bi"></i></button></pre></div>
 <div class="cell-output cell-output-stdout">
-<pre><code>Pfizer가 Moderna보다 나을 확률: 62.36% </code></pre>
+<pre><code>Pfizer가 Moderna보다 나을 확률: 62.71% </code></pre>
 </div>
 </div>
 </section>
@@ -771,36 +768,34 @@ code span.wa { color: #60a0b0; font-weight: bold; font-style: italic; } /* Warni
 
     <div>
       <progress value="102000" class="" max="102000" style="width:300px; height:20px; vertical-align: middle;"></progress>
-      100.00% [102000/102000 00:24&lt;00:00 Sampling 2 chains, 0 divergences]
+      100.00% [102000/102000 00:22&lt;00:00 Sampling 2 chains, 0 divergences]
     </div>
     
 </div>
 <div class="cell-output cell-output-stderr">
-<pre><code>Sampling 2 chains for 1_000 tune and 50_000 draw iterations (2_000 + 100_000 draws total) took 25 seconds.</code></pre>
+<pre><code>Sampling 2 chains for 1_000 tune and 50_000 draw iterations (2_000 + 100_000 draws total) took 23 seconds.</code></pre>
 </div>
 <div class="cell-output cell-output-stderr">
 <pre><code>The number of effective samples is smaller than 25% for some parameters.</code></pre>
 </div>
 </div>
-<p>결과를 시각화 하면 아래와 같다.</p>
-<p>보면 알겠지만, 차이가 0보다 클 확률이 상당히 높은 것을 직관적으로 볼 수 있습니다.</p>
+<p>결과를 시각화 하면 아래와 같다. 보면 알겠지만, 차이가 0보다 클 확률이 상당히 높은 것을 직관적으로 볼 수 있습니다.</p>
 <div class="cell" data-execution_count="17">
 <div class="sourceCode cell-code" id="cb40"><pre class="sourceCode python code-with-copy"><code class="sourceCode python"><span id="cb40-1"><a href="#cb40-1" aria-hidden="true" tabindex="-1"></a><span class="cf">with</span> model_2:</span>
 <span id="cb40-2"><a href="#cb40-2" aria-hidden="true" tabindex="-1"></a>    _ <span class="op">=</span> pm.plot_posterior(trace_2, var_names<span class="op">=</span>[<span class="st">'difference'</span>, <span class="st">'relation'</span>], ref_val<span class="op">=</span><span class="dv">0</span>)<span class="op">;</span></span>
 <span id="cb40-3"><a href="#cb40-3" aria-hidden="true" tabindex="-1"></a>plt.show()</span></code><button title="Copy to Clipboard" class="code-copy-button"><i class="bi"></i></button></pre></div>
 <div class="cell-output cell-output-display">
-<p><img src="index_files/figure-html/cell-18-output-1.png" width="1379" height="518"></p>
+<p><img src="index_files/figure-html/cell-18-output-1.png" width="1364" height="518"></p>
 </div>
 </div>
-<p>용법 1이 용법 2보다 나을 확률이 높음을 알 수 있으며 계산해보면 99%이상 용법 1이 낫다고 볼 수 있습니다.</p>
-<p>6%이상 나을 확률도 97% 수준으로 용법 1이 용법 2보다 훨씬 났다고 볼 수 있습니다.</p>
+<p>용법 1이 용법 2보다 나을 확률이 높음을 알 수 있으며 계산해보면 99%이상 용법 1이 낫다고 볼 수 있습니다. 6%이상 나을 확률도 97% 수준으로 용법 1이 용법 2보다 훨씬 났다고 볼 수 있습니다.</p>
 <div class="cell" data-execution_count="18">
 <div class="sourceCode cell-code" id="cb41"><pre class="sourceCode python code-with-copy"><code class="sourceCode python"><span id="cb41-1"><a href="#cb41-1" aria-hidden="true" tabindex="-1"></a>diffs_2 <span class="op">=</span> trace_2.get_values(<span class="st">'difference'</span>, burn<span class="op">=</span><span class="dv">1000</span>)</span>
 <span id="cb41-2"><a href="#cb41-2" aria-hidden="true" tabindex="-1"></a><span class="bu">print</span>(<span class="ss">f"Regime1이 Regime2보다 나을 확률: </span><span class="sc">{</span><span class="dv">100</span><span class="op">*</span><span class="bu">len</span>(diffs_2[diffs_2<span class="op">&gt;</span><span class="dv">0</span>])<span class="op">*</span><span class="fl">1.0</span><span class="op">/</span><span class="bu">len</span>(diffs_2)<span class="sc">:.2f}</span><span class="ss">%"</span>)</span>
 <span id="cb41-3"><a href="#cb41-3" aria-hidden="true" tabindex="-1"></a><span class="bu">print</span>(<span class="ss">f"Regime1이 Regime2보다 6%이상 나을 확률: </span><span class="sc">{</span><span class="dv">100</span><span class="op">*</span><span class="bu">len</span>(diffs_2[diffs_2<span class="op">&gt;</span><span class="fl">0.06</span>])<span class="op">*</span><span class="fl">1.0</span><span class="op">/</span><span class="bu">len</span>(diffs_2)<span class="sc">:.2f}</span><span class="ss">%"</span>)</span></code><button title="Copy to Clipboard" class="code-copy-button"><i class="bi"></i></button></pre></div>
 <div class="cell-output cell-output-stdout">
-<pre><code>Regime1이 Regime2보다 나을 확률: 99.30%
-Regime1이 Regime2보다 6%이상 나을 확률: 97.77%</code></pre>
+<pre><code>Regime1이 Regime2보다 나을 확률: 99.24%
+Regime1이 Regime2보다 6%이상 나을 확률: 97.69%</code></pre>
 </div>
 </div>
 <div class="cell" data-execution_count="19">

diff --git a/index.html b/index.html
@@ -206,7 +206,7 @@ Nov 2, 2022
 </a>
 </div>
 </div>
-<div class="quarto-post image-right" data-index="1" data-categories="python,jax,regression,tutorial" data-listing-date-sort="1661126400000" data-listing-file-modified-sort="1668386043403" data-listing-reading-time-sort="2.02">
+<div class="quarto-post image-right" data-index="1" data-categories="python,jax,regression,tutorial" data-listing-date-sort="1661126400000" data-listing-file-modified-sort="1668492457382" data-listing-reading-time-sort="2.04">
 <div class="thumbnail">
 <p><a href="./posts/regression_using_jax/index.html"> <img src="./posts/regression_using_jax/regression.png" class="thumnail-image"> </a></p>
 </div>
@@ -292,13 +292,9 @@ Dec 23, 2021
 </a>
 </div>
 </div>
-<div class="quarto-post image-right" data-index="3" data-categories="python,bayesian,statistics,vaccine efficacy" data-listing-date-sort="1632528000000" data-listing-file-modified-sort="1668049168004" data-listing-reading-time-sort="10.455">
+<div class="quarto-post image-right" data-index="3" data-categories="python,bayesian,statistics,vaccine efficacy" data-listing-date-sort="1632528000000" data-listing-file-modified-sort="1668493016300" data-listing-reading-time-sort="10.455">
 <div class="thumbnail">
-<a href="./posts/bayesian_approach_for_COVID-19_vaccine_efficacy/index.html">
-<div class="thumbnail-image">
-
-</div>
-</a><p><a href="./posts/bayesian_approach_for_COVID-19_vaccine_efficacy/index.html"></a></p>
+<p><a href="./posts/bayesian_approach_for_COVID-19_vaccine_efficacy/index.html"> <img src="./posts/bayesian_approach_for_COVID-19_vaccine_efficacy/efficacy.png" class="thumnail-image"> </a></p>
 </div>
 <div class="body">
 <a href="./posts/bayesian_approach_for_COVID-19_vaccine_efficacy/index.html">

diff --git a/about.html b/about.html
@@ -114,7 +114,7 @@ ul.task-list li input[type="checkbox"] {
 <div class="quarto-title-meta">
   </div>
 </header><main class="content" id="quarto-document-content">
-<p>데이터 과학에 관련된 코드를 모으고 공유하고자 합니다.</p>
+<p>데이터 과학에 관련된 코드와 지식을 공유하고자 합니다. 데이터를 통한 의사결정에 관심이 많습니다.</p>
 
 
 </main> 
